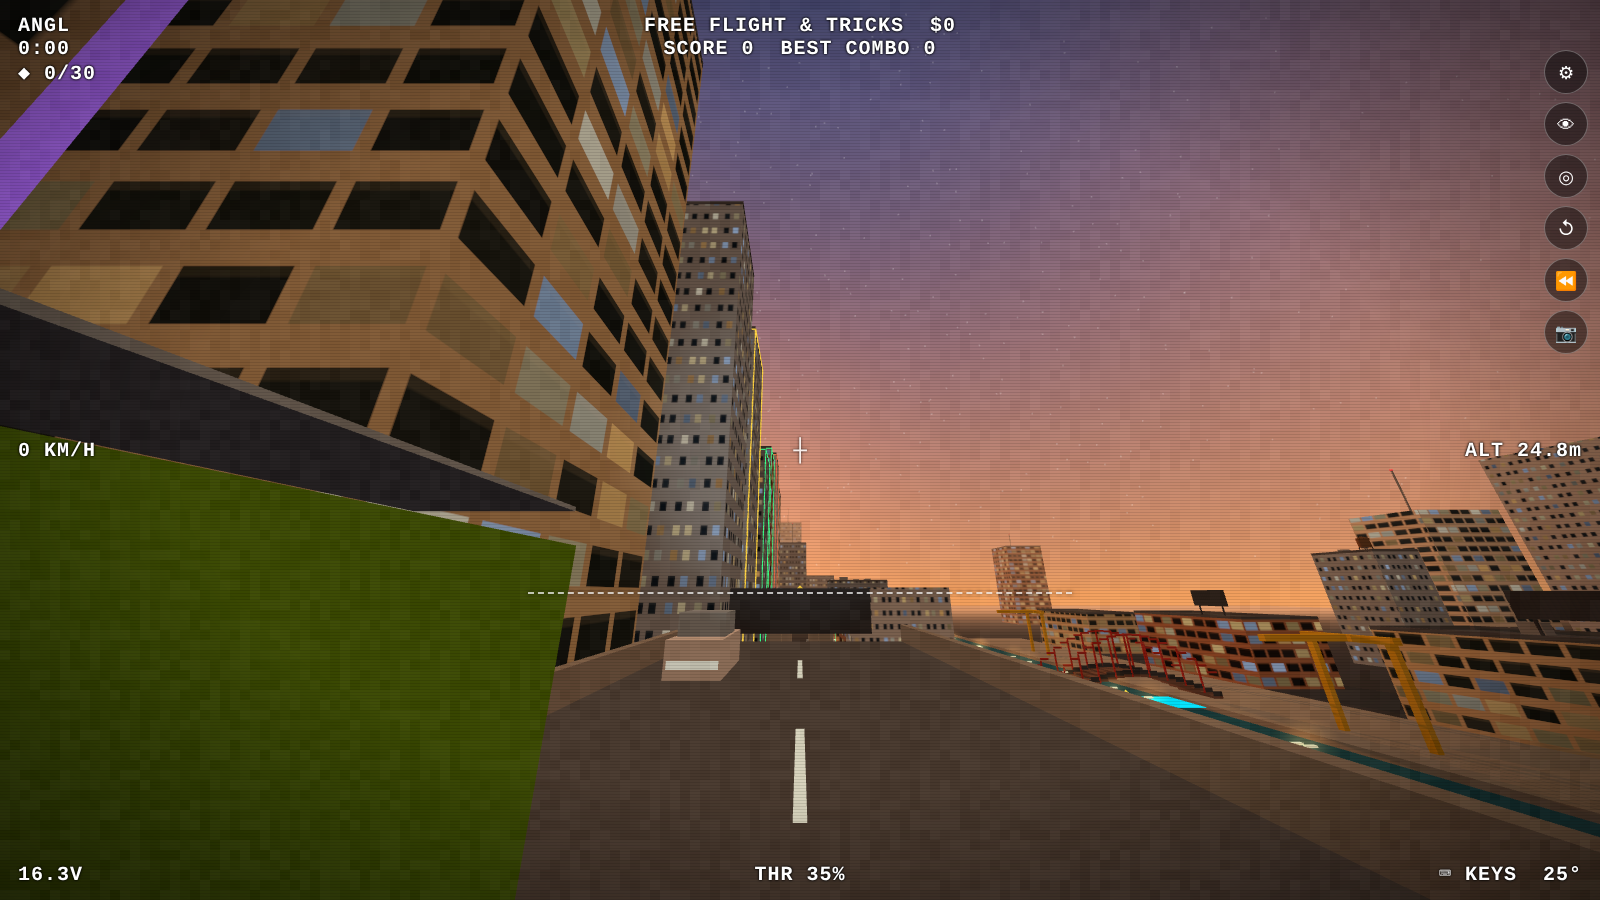
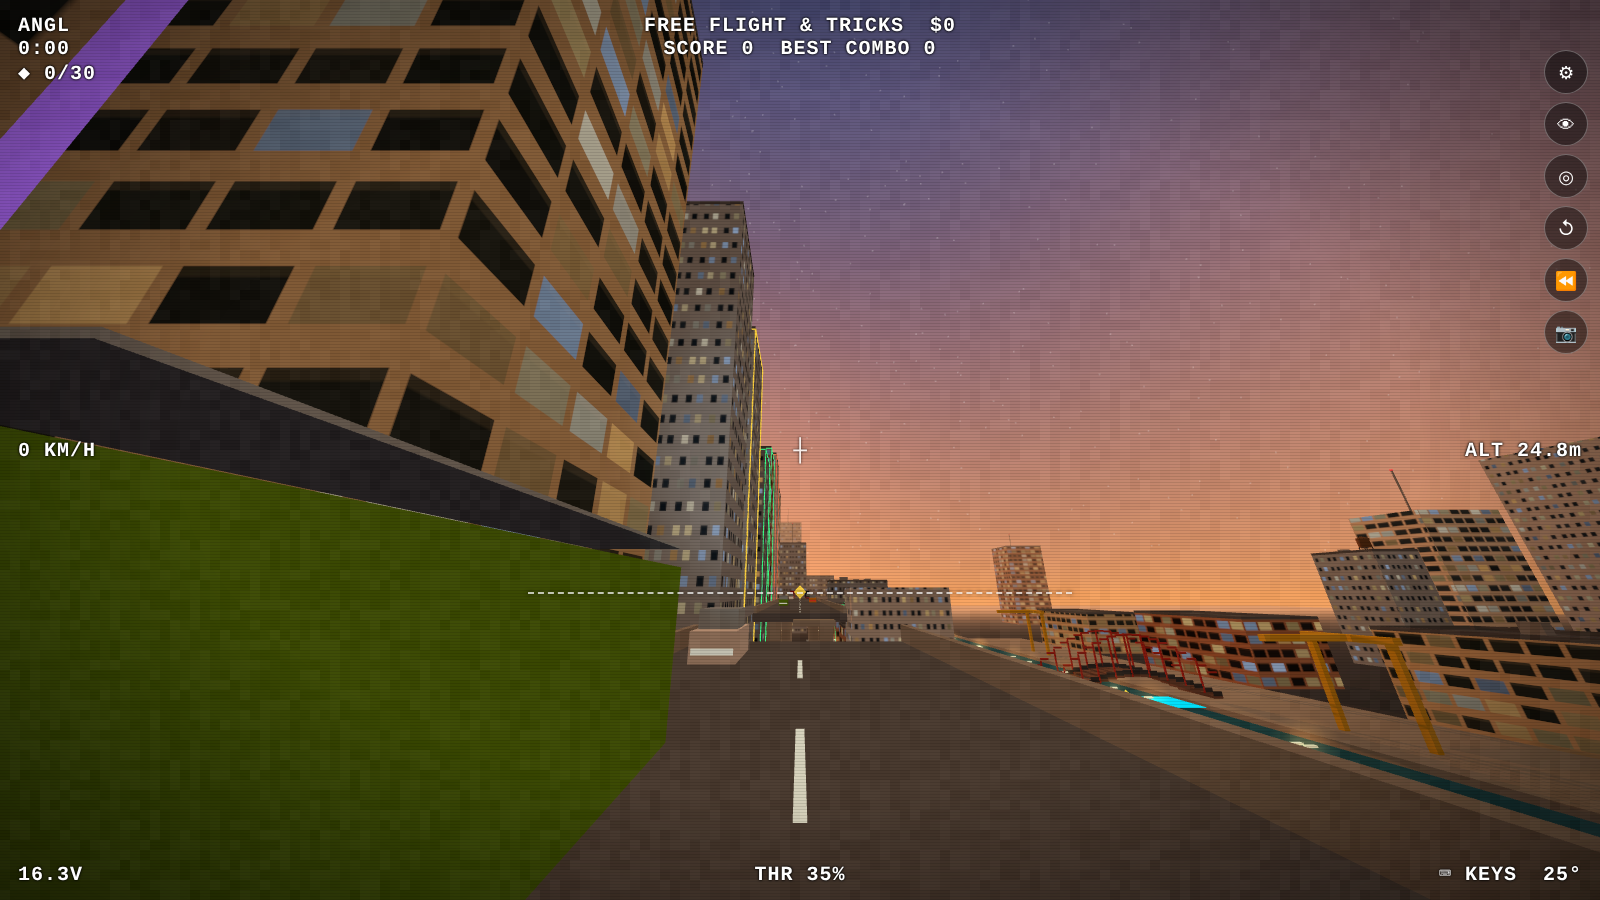
v0.4.1: remove ad billboards, blade signs and hanging signs; refresh screenshots
Claude-Session: https://claude.ai/code/session_01Qq8UBKphU7AXk4TW1wRbgV

diff --git a/index.html b/index.html
@@ -121,7 +121,7 @@
 <script>
 (function(){
 'use strict';
-const VERSION='0.4.0';
+const VERSION='0.4.1';
 const REPO='kefirman9000/rotorbound';
 const $=id=>document.getElementById(id);
 if(!window.THREE){document.body.innerHTML='<div style="padding:40px;font-size:20px">Could not load the 3D engine (lib/three.min.js is missing). Re-download Rotorbound from GitHub.</div>';return;}
@@ -220,9 +220,7 @@ function building(x,z,w,d,h,y0=0,opt={}){
   const ac=Math.floor(rnd()*4);for(let k=0;k<ac;k++){b.clear=false;box(x+(rnd()-.5)*w*.6,top,z+(rnd()-.5)*d*.6,1.6+rnd()*2.5,1+rnd()*1.5,1.6+rnd()*2.5,propMat);}
   if(top>45&&rnd()<0.6){b.clear=false;const ax=x+(rnd()-.5)*w*.3,az=z+(rnd()-.5)*d*.3,ah=6+rnd()*14;box(ax,top,az,0.4,ah,0.4,propMat);box(ax,top+ah,az,0.6,0.6,0.6,basic(0xff3b3b),false);}
   if(top<45&&rnd()<0.3){b.clear=false;const tx=x+(rnd()-.5)*w*.4,tz=z+(rnd()-.5)*d*.4;mesh(new THREE.CylinderGeometry(1.6,1.6,3.2,12),trunkMat,tx,top+3.8,tz);mesh(new THREE.ConeGeometry(1.8,1,12),trunkMat,tx,top+5.9,tz);for(const[ox,oz]of[[-1,-1],[1,-1],[-1,1],[1,1]])box(tx+ox*1.1,top,tz+oz*1.1,0.2,2.2,0.2,darkMetal);collider(tx-1.6,top,tz-1.6,tx+1.6,top+6.4,tz+1.6);}
-  if(top>12&&top<45&&rnd()<0.22){b.clear=false;b.bill=true;const alongX=w>=d,bw=Math.min(12,(alongX?w:d)*0.8),bh=5;const by=top+3+bh/2;
-    if(alongX){box(x-bw/3,top,z,0.3,3,0.3,darkMetal);box(x+bw/3,top,z,0.3,3,0.3,darkMetal);billboard(x,by,z+0.05,bw,bh,0,Math.floor(rnd()*99));}
-    else{box(x,top,z-bw/3,0.3,3,0.3,darkMetal);box(x,top,z+bw/3,0.3,3,0.3,darkMetal);billboard(x+0.05,by,z,bw,bh,Math.PI/2,Math.floor(rnd()*99));}}
+  if(top>12&&top<45&&rnd()<0.22){b.clear=false;b.bill=true;rnd();}
   buildings.push(b);return b;
 }
 const trunkGeo=new THREE.CylinderGeometry(0.25,0.35,3,6),crownGeo=new THREE.SphereGeometry(2.4,8,6);
@@ -418,8 +416,8 @@ function buildCanyons(){
       building(-38,-43,24,22,92,0,{plain:true});neonEdges(-38,-43,24,22,0,92,NEON[0]);
       building(-38,-43,17,15,32,92,{plain:true});neonEdges(-38,-43,17,15,92,32,NEON[2]);
       const t=building(-38,-43,10,9,16,124,{plain:true});neonEdges(-38,-43,10,9,124,16,NEON[1]);topper(t,'crown',NEON[1]);
-      billboard(-25.7,30,-43,16,8,Math.PI/2,0);billboard(-25.7,62,-43,14,7,Math.PI/2,2);billboard(-38,24,-31.7,16,8,0,5);billboard(-38,52,-31.7,14,7,0,7);
-      blade(-26,10,-36,'x',1,12);blade(-26,10,-50,'x',1,12);blade(-45,12,-32,'z',1,10);
+      
+      
       MAPDEF.neonA={x:-38,z:-43};
     }
     else if(zn==='neonB'){
@@ -427,15 +425,15 @@ function buildCanyons(){
       building(38,18,24,22,78,0,{plain:true});neonEdges(38,18,24,22,0,78,NEON[1]);
       building(38,18,16,15,30,78,{plain:true});neonEdges(38,18,16,15,78,30,NEON[2]);
       const t=building(38,18,9,8,14,108,{plain:true});neonEdges(38,18,9,8,108,14,NEON[0]);topper(t,'spire',NEON[0]);
-      billboard(25.7,28,18,16,8,-Math.PI/2,1);billboard(25.7,56,18,14,7,-Math.PI/2,3);billboard(38,22,6.7,16,8,Math.PI,4);billboard(38,48,6.7,14,7,Math.PI,6);
-      blade(26,10,12,'x',-1,12);blade(26,10,25,'x',-1,12);blade(45,12,7,'z',-1,10);
+      
+      
       MAPDEF.neonB={x:38,z:18};
     }
     else if(zn==='crossMid'){
       if(i===3){building(27,-43,24,36,70,0,{plain:true});neonEdges(27,-43,24,36,0,70,NEON[3]);building(52.5,-43,17,36,45);
-        billboard(14.7,22,-36,16,8,-Math.PI/2,1);billboard(14.7,44,-50,14,7,-Math.PI/2,6);billboard(27,30,-24.7,18,9,0,0);blade(15,8,-30,'x',-1,11);blade(15,8,-56,'x',-1,11);}
+        }
       else{building(-27,18.5,24,27,65,0,{plain:true});neonEdges(-27,18.5,24,27,0,65,NEON[4]);building(-52.5,18.5,17,27,50);
-        billboard(-14.7,24,12,16,8,Math.PI/2,3);billboard(-14.7,46,26,14,7,Math.PI/2,5);billboard(-27,30,4.7,18,9,Math.PI,2);blade(-15,8,8,'x',1,11);blade(-15,8,29,'x',1,11);}
+        }
     }
     else if(zn==='plaza'){
       box(cx,0.25,cz,W,0.02,Dd,grassMat,false);
@@ -458,10 +456,6 @@ function buildCanyons(){
   openBridge(-26,15,-43,46,NEON[1]);
   openBridge(-15,26,20,58,NEON[0]);
   glassBridgeZ(-32.5,-32,5,30);
-  // hanging signs over the crossroads
-  const hang=(x,y,z,alongX,ad)=>{const w=14,h=6;if(alongX){box(x,y,z,w,h,0.5,darkMetal);billboard(x,y+h/2,z+0.3,w-0.4,h-0.4,0,ad);billboard(x,y+h/2,z-0.3,w-0.4,h-0.4,Math.PI,ad+1);}else{box(x,y,z,0.5,h,w,darkMetal);billboard(x+0.3,y+h/2,z,w-0.4,h-0.4,Math.PI/2,ad);billboard(x-0.3,y+h/2,z,w-0.4,h-0.4,-Math.PI/2,ad+1);}
-    for(const o of[-1,1]){const cx2=alongX?x+o*w*0.4:x,cz2=alongX?z:z+o*w*0.4;box(cx2,y+h,cz2,0.06,14,0.06,darkMetal,false);}};
-  hang(0,18,-30,true,0);hang(0,26,15,true,2);hang(-35,20,-10,false,4);hang(35,14,-10,false,6);
 
   // elevated highway along z=95 with a broken middle section
   {const deckM=lam(0x5d6067),HY=20.8;
@@ -471,7 +465,7 @@ function buildCanyons(){
    for(let x=-186;x<190;x+=22){if(XL.some(([c,w])=>w&&Math.abs(x-c)<w/2+3)||(x>-20&&x<25))continue;for(const z of[90,100])box(x,0,z,1.6,HY,1.6,concrete);}
    box(-14.5,HY-0.6,93,3,1,5,concrete);box(19.5,HY-0.4,97,3,0.8,6,concrete);for(let k=0;k<5;k++){box(-13+k*0.1,HY,90+k*2.5,0.08,0.08,1.2,darkMetal,false);}
    box(3,0,95,10,1.2,8,concrete);box(-2,1.2,93,4,0.8,3,concrete);
-   billboard(-20,HY+3.2,95,8,2.4,Math.PI/2,6);billboard(25,HY+3.2,95,8,2.4,-Math.PI/2,6);
+   
    gapZones.push({c:new V3(2.5,26,95),n:new V3(1,0,0),name:'HIGHWAY JUMP',pts:260,test:p=>Math.abs(p.z-95)<7&&p.y>18&&p.y<34});
    for(const x of[-100,100])gapZones.push({c:new V3(x,8,95),n:new V3(1,0,0),name:'UNDERPASS',pts:120,test:p=>Math.abs(p.z-95)<7&&p.y<HY});
    for(let k=0;k<16;k++){const seg=k<8?[-195,-20]:[25,195],dir=k%2?1:-1;addCar({axis:'x',line:95,dir,lane:dir*3.5,p:seg[0]+rnd()*(seg[1]-seg[0]),v:14+rnd()*8,min:seg[0],max:seg[1],y0:HY+1.2,big:rnd()<0.2});}
@@ -585,7 +579,7 @@ for(let i=0;i<N;i++)for(let j=0;j<N;j++){
   box(230,0,0,8,0.04,400,lam(0x2a2b2e),false);
   const tl=basic(0xfff4d0);for(let z=-195;z<=195;z+=10)box(230,6.85,z,1.6,0.12,0.6,tl,false);
   for(const z of[-200,200]){box(225.5,0,z,1.2,9,1.2,concrete);box(234.5,0,z,1.2,9,1.2,concrete);box(230,7.6,z,10.2,1.4,1.2,concrete);}
-  billboard(230,9.6,-200.7,9,2.2,Math.PI,6);billboard(230,9.6,200.7,9,2.2,0,6);
+  
 }
 
 // elevated train loop on the ±150 roads
@@ -654,7 +648,7 @@ function ringObstacle(x,y,z,nx,ny,nz,r,col,name,pts){
     box(x,y-0.6,z,s*1.5,1,s*1.5,grassMat);collider(x-s*0.7,y-s*1.2,z-s*0.7,x+s*0.7,y-0.6,z+s*0.7);
     tree(x+s*0.3,z-s*0.2,y+0.4);if(s>6)tree(x-s*0.35,z+s*0.3,y+0.4);
   }
-  billboard(-345,30,-124,30,10,0,7);
+  
   const sg=new THREE.Mesh(new THREE.PlaneGeometry(40,8),basic(0xffffff,{map:canvasTex(512,100,(g)=>{g.fillStyle='#0b1020';g.fillRect(0,0,512,100);g.fillStyle='#39ff88';g.font='bold 70px Impact, Arial Black';g.textAlign='center';g.textBaseline='middle';g.fillText('STUNT PARK',256,52);}),side:THREE.DoubleSide}));sg.position.set(-252,16,0);sg.rotation.y=Math.PI/2;scene.add(sg);
 }
 
@@ -674,7 +668,7 @@ const STAD={x:0,z:330};
   const lightPanel=basic(0xbfc4cc);glowMats.push(lightPanel);
   for(const ox of[-1,1])for(const oz of[-1,1]){const x=sx+ox*82,z=sz+oz*64;box(x,0,z,1.2,42,1.2,steel);box(x,42,z,9,4.5,1.2,lightPanel);}
   for(const ox of[-1,1]){const gx=sx+ox*FX;box(gx,0,sz-3.7,0.2,2.4,0.2,seatB);box(gx,0,sz+3.7,0.2,2.4,0.2,seatB);box(gx,2.4,sz,0.2,0.2,7.6,seatB);}
-  billboard(sx,25,sz+62.5,30,9,Math.PI,5);
+  
   gapZones.push({c:new V3(sx,3,sz-FZ-4),n:new V3(0,0,1),name:'STADIUM TUNNEL',pts:250,test:p=>Math.abs(p.x-sx)<5&&p.y<6});
   gapZones.push({c:new V3(sx,1.2,sz),n:new V3(1,0,0),name:'MIDFIELD SKIM',pts:120,test:p=>p.y<1.5&&Math.abs(p.z-sz)<FZ});
 }
